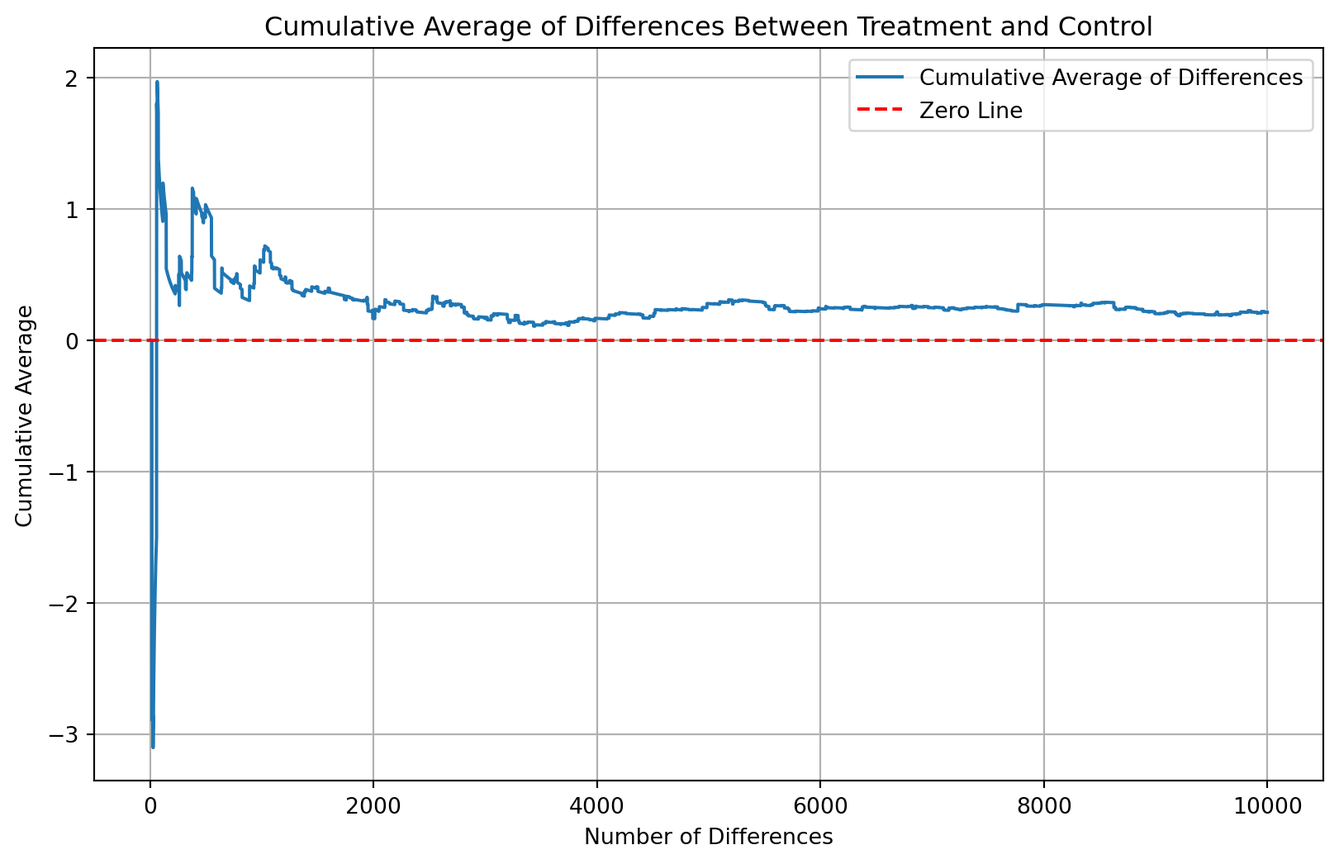
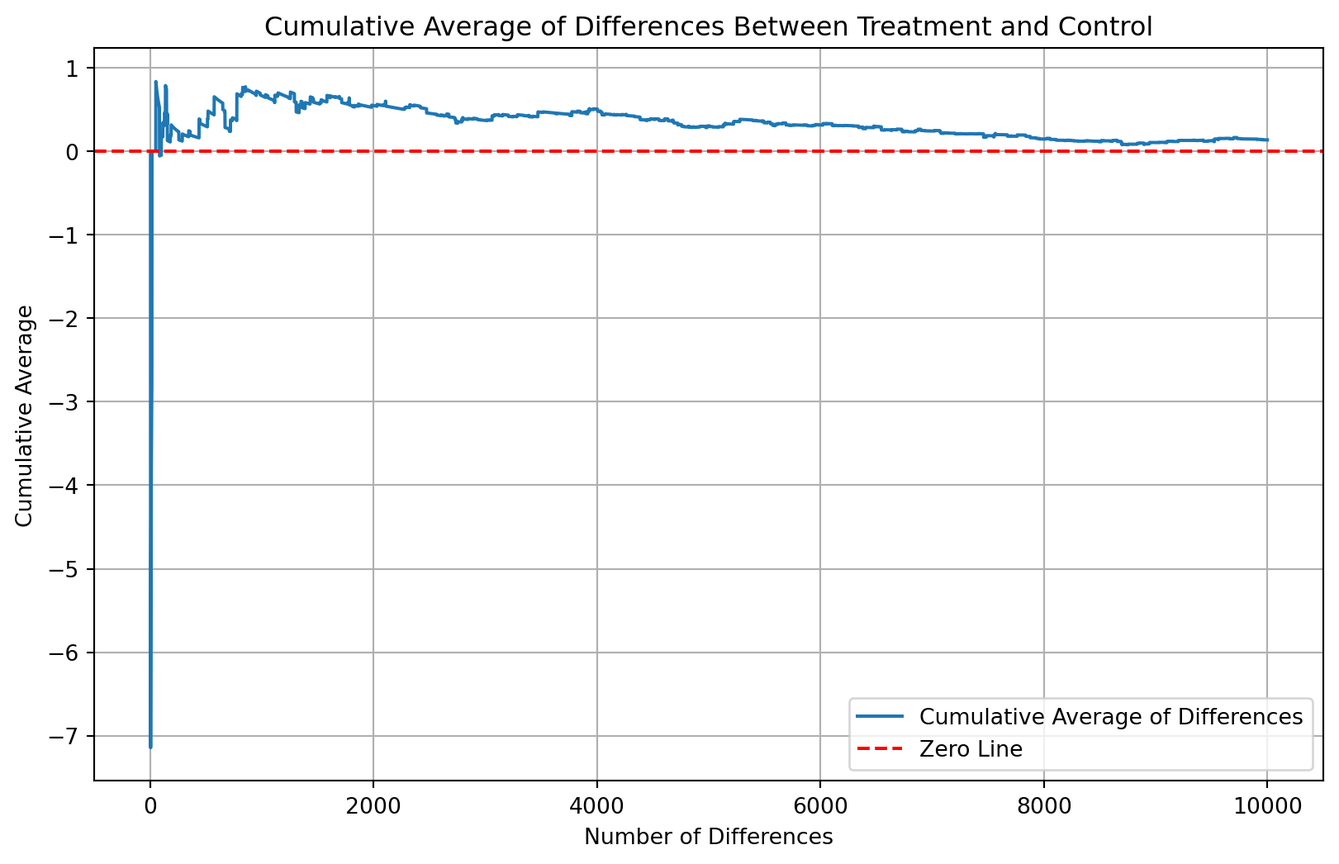
commit3

diff --git a/docs/projects/homework1/hw1_questions.html b/docs/projects/homework1/hw1_questions.html
@@ -217,15 +217,14 @@ pre > code.sourceCode > span > a:first-child::before { text-decoration: underlin
 <section id="description" class="level3">
 <h3 class="anchored" data-anchor-id="description">Description</h3>
 <p><em>todo: Read the data into R/Python and describe the data</em></p>
-<p>Some observations from the summary statistics: - The treatment variable has a mean of 0.666813, indicating about two-thirds of the sample received a treatment letter.</p>
-<div id="ea5c03a7" class="cell" data-execution_count="1">
+<div id="89fe37f8" class="cell" data-execution_count="1">
 <div class="sourceCode cell-code" id="cb1"><pre class="sourceCode python code-with-copy"><code class="sourceCode python"><span id="cb1-1"><a href="#cb1-1" aria-hidden="true" tabindex="-1"></a><span class="im">import</span> sys</span>
 <span id="cb1-2"><a href="#cb1-2" aria-hidden="true" tabindex="-1"></a><span class="bu">print</span>(sys.version)</span></code><button title="Copy to Clipboard" class="code-copy-button"><i class="bi"></i></button></pre></div>
 <div class="cell-output cell-output-stdout">
 <pre><code>3.11.9 | packaged by conda-forge | (main, Apr 19 2024, 18:25:01) [GCC 12.3.0]</code></pre>
 </div>
 </div>
-<div id="e3fec77b" class="cell" data-execution_count="2">
+<div id="9b55f298" class="cell" data-execution_count="2">
 <div class="sourceCode cell-code" id="cb3"><pre class="sourceCode python code-with-copy"><code class="sourceCode python"><span id="cb3-1"><a href="#cb3-1" aria-hidden="true" tabindex="-1"></a><span class="im">import</span> pandas <span class="im">as</span> pd</span>
 <span id="cb3-2"><a href="#cb3-2" aria-hidden="true" tabindex="-1"></a></span>
 <span id="cb3-3"><a href="#cb3-3" aria-hidden="true" tabindex="-1"></a><span class="co"># Load the Stata file</span></span>
@@ -298,7 +297,7 @@ memory usage: 8.9 MB
 None</code></pre>
 </div>
 </div>
-<div id="2441c7ed" class="cell" data-execution_count="3">
+<div id="619ef500" class="cell" data-execution_count="3">
 <div class="sourceCode cell-code" id="cb5"><pre class="sourceCode python code-with-copy"><code class="sourceCode python"><span id="cb5-1"><a href="#cb5-1" aria-hidden="true" tabindex="-1"></a><span class="co"># Show summary statistics</span></span>
 <span id="cb5-2"><a href="#cb5-2" aria-hidden="true" tabindex="-1"></a><span class="bu">print</span>(<span class="st">"</span><span class="ch">\n</span><span class="st">Summary statistics:"</span>)</span>
 <span id="cb5-3"><a href="#cb5-3" aria-hidden="true" tabindex="-1"></a><span class="bu">print</span>(df.describe(include<span class="op">=</span><span class="st">'all'</span>))</span></code><button title="Copy to Clipboard" class="code-copy-button"><i class="bi"></i></button></pre></div>
@@ -373,6 +372,7 @@ max          1.000000
 [11 rows x 51 columns]</code></pre>
 </div>
 </div>
+<p>Some observations from the summary statistics: - The treatment variable has a mean of 0.666813, indicating about two-thirds of the sample received a treatment letter.</p>
 <ul>
 <li><p>The control variable has a mean of 0.333187, indicating one-third of the sample received the standard letter with no match.</p></li>
 <li><p>The ratio2 (2:1 match) and ratio3 (3:1 match) indicators each have a mean of approximately 0.222, meaning about 22% of the sample received these specific matching offers.</p></li>
@@ -623,8 +623,7 @@ Variable Definitions
 <section id="charitable-contribution-made" class="level3">
 <h3 class="anchored" data-anchor-id="charitable-contribution-made">Charitable Contribution Made</h3>
 <p>First, I analyze whether matched donations lead to an increased response rate of making a donation.</p>
-<p><em>todo: make a barplot with two bars. Each bar is the proportion of people who donated. One bar for treatment and one bar for control.</em></p>
-<div id="d2eb6ee5" class="cell" data-execution_count="4">
+<div id="8506a540" class="cell" data-execution_count="4">
 <div class="sourceCode cell-code" id="cb7"><pre class="sourceCode python code-with-copy"><code class="sourceCode python"><span id="cb7-1"><a href="#cb7-1" aria-hidden="true" tabindex="-1"></a><span class="im">import</span> matplotlib.pyplot <span class="im">as</span> plt</span>
 <span id="cb7-2"><a href="#cb7-2" aria-hidden="true" tabindex="-1"></a></span>
 <span id="cb7-3"><a href="#cb7-3" aria-hidden="true" tabindex="-1"></a><span class="co"># Calculate the proportion of people who donated in each group</span></span>
@@ -652,8 +651,7 @@ Proportion of people who donated in the Control group: 1.79%</code></pre>
 </div>
 </div>
 </div>
-<p><em>todo: run a t-test between the treatment and control groups on the binary outcome of whether any charitable donation was made. Also run a bivariate linear regression that demonstrates the same finding. (It may help to confirm your calculations match Table 2a Panel A.) Report your statistical results and interpret them in the context of the experiment (e.g., if you found a difference with a small p-value or that was statistically significant at some threshold, what have you learned about human behavior? Use mostly English words, not numbers or stats, to explain your finding.)</em></p>
-<div id="9d50a40d" class="cell" data-execution_count="5">
+<div id="b0b2fdd1" class="cell" data-execution_count="5">
 <div class="sourceCode cell-code" id="cb9"><pre class="sourceCode python code-with-copy"><code class="sourceCode python"><span id="cb9-1"><a href="#cb9-1" aria-hidden="true" tabindex="-1"></a><span class="im">from</span> scipy.stats <span class="im">import</span> ttest_ind</span>
 <span id="cb9-2"><a href="#cb9-2" aria-hidden="true" tabindex="-1"></a></span>
 <span id="cb9-3"><a href="#cb9-3" aria-hidden="true" tabindex="-1"></a><span class="op">%</span>pip install statsmodels</span>
@@ -673,7 +671,7 @@ Requirement already satisfied: six in /opt/conda/lib/python3.11/site-packages (f
 Note: you may need to restart the kernel to use updated packages.</code></pre>
 </div>
 </div>
-<div id="63ba697a" class="cell" data-execution_count="6">
+<div id="ebefbc91" class="cell" data-execution_count="6">
 <div class="sourceCode cell-code" id="cb11"><pre class="sourceCode python code-with-copy"><code class="sourceCode python"><span id="cb11-1"><a href="#cb11-1" aria-hidden="true" tabindex="-1"></a><span class="im">import</span> statsmodels.api <span class="im">as</span> sm</span>
 <span id="cb11-2"><a href="#cb11-2" aria-hidden="true" tabindex="-1"></a></span>
 <span id="cb11-3"><a href="#cb11-3" aria-hidden="true" tabindex="-1"></a><span class="co"># Add an intercept column to the DataFrame</span></span>
@@ -698,7 +696,7 @@ Dep. Variable:                   gave   R-squared:                       0.000
 Model:                            OLS   Adj. R-squared:                  0.000
 Method:                 Least Squares   F-statistic:                     9.618
 Date:                Wed, 23 Apr 2025   Prob (F-statistic):            0.00193
-Time:                        12:02:19   Log-Likelihood:                 26630.
+Time:                        12:09:09   Log-Likelihood:                 26630.
 No. Observations:               50083   AIC:                        -5.326e+04
 Df Residuals:                   50081   BIC:                        -5.324e+04
 Df Model:                           1                                         
@@ -721,7 +719,7 @@ Notes:
 P-value for treatment in bivariate regression: 0.0019</code></pre>
 </div>
 </div>
-<div id="88d18758" class="cell" data-execution_count="7">
+<div id="d46bf98f" class="cell" data-execution_count="7">
 <div class="sourceCode cell-code" id="cb13"><pre class="sourceCode python code-with-copy"><code class="sourceCode python"><span id="cb13-1"><a href="#cb13-1" aria-hidden="true" tabindex="-1"></a><span class="co"># Perform a probit regression</span></span>
 <span id="cb13-2"><a href="#cb13-2" aria-hidden="true" tabindex="-1"></a>probit_model <span class="op">=</span> smf.probit(<span class="st">'gave ~ treatment'</span>, data<span class="op">=</span>df)</span>
 <span id="cb13-3"><a href="#cb13-3" aria-hidden="true" tabindex="-1"></a>probit_results <span class="op">=</span> probit_model.fit()</span>
@@ -741,7 +739,7 @@ Dep. Variable:                   gave   No. Observations:                50083
 Model:                         Probit   Df Residuals:                    50081
 Method:                           MLE   Df Model:                            1
 Date:                Wed, 23 Apr 2025   Pseudo R-squ.:               0.0009783
-Time:                        12:02:20   Log-Likelihood:                -5030.5
+Time:                        12:09:10   Log-Likelihood:                -5030.5
 converged:                       True   LL-Null:                       -5035.4
 Covariance Type:            nonrobust   LLR p-value:                  0.001696
 ==============================================================================
@@ -753,13 +751,12 @@ treatment      0.0868      0.028      3.113      0.002       0.032       0.141
 </div>
 </div>
 <p>Notes: [1] Standard Errors assume that the covariance matrix of the errors is correctly specified.</p>
-<p>P-value for treatment in bivariate regression: 0.0019 <em>todo: run a probit regression where the outcome variable is whether any charitable donation was made and the explanatory variable is assignment to treatment or control. Confirm that your results replicate Table 3 column 1 in the paper.</em></p>
+<p>P-value for treatment in bivariate regression: 0.0019</p>
 </section>
 <section id="differences-between-match-rates" class="level3">
 <h3 class="anchored" data-anchor-id="differences-between-match-rates">Differences between Match Rates</h3>
 <p>Next, I assess the effectiveness of different sizes of matched donations on the response rate.</p>
-<p><em>todo: Use a series of t-tests to test whether the size of the match ratio has an effect on whether people donate or not. For example, does the 2:1 match rate lead increase the likelihood that someone donates as compared to the 1:1 match rate? Do your results support the “figures suggest” comment the authors make on page 8?</em></p>
-<div id="c882524d" class="cell" data-execution_count="8">
+<div id="8efa3994" class="cell" data-execution_count="8">
 <div class="sourceCode cell-code" id="cb15"><pre class="sourceCode python code-with-copy"><code class="sourceCode python"><span id="cb15-1"><a href="#cb15-1" aria-hidden="true" tabindex="-1"></a><span class="co"># Extract unique match ratios</span></span>
 <span id="cb15-2"><a href="#cb15-2" aria-hidden="true" tabindex="-1"></a>match_ratios <span class="op">=</span> df[<span class="st">'ratio'</span>].unique()</span>
 <span id="cb15-3"><a href="#cb15-3" aria-hidden="true" tabindex="-1"></a></span>
@@ -800,8 +797,7 @@ T-statistic: -0.0501, P-value: 0.9600
 </code></pre>
 </div>
 </div>
-<p><em>todo: Assess the same issue using a regression. Specifically, create the variable <code>ratio1</code> then regress <code>gave</code> on <code>ratio1</code>, <code>ratio2</code>, and <code>ratio3</code> (or alternatively, regress <code>gave</code> on the categorical variable <code>ratio</code>). Interpret the coefficients and their statistical precision.</em></p>
-<div id="bc375d57" class="cell" data-execution_count="9">
+<div id="5f97b8bf" class="cell" data-execution_count="9">
 <div class="sourceCode cell-code" id="cb17"><pre class="sourceCode python code-with-copy"><code class="sourceCode python"><span id="cb17-1"><a href="#cb17-1" aria-hidden="true" tabindex="-1"></a><span class="co"># Create the variable `ratio1` from the `ratio` column</span></span>
 <span id="cb17-2"><a href="#cb17-2" aria-hidden="true" tabindex="-1"></a>df[<span class="st">'ratio1'</span>] <span class="op">=</span> (df[<span class="st">'ratio'</span>] <span class="op">==</span> <span class="dv">1</span>).astype(<span class="bu">int</span>)</span>
 <span id="cb17-3"><a href="#cb17-3" aria-hidden="true" tabindex="-1"></a></span>
@@ -821,7 +817,7 @@ Dep. Variable:                   gave   R-squared:                       0.000
 Model:                            OLS   Adj. R-squared:                  0.000
 Method:                 Least Squares   F-statistic:                     3.665
 Date:                Wed, 23 Apr 2025   Prob (F-statistic):             0.0118
-Time:                        12:02:20   Log-Likelihood:                 26630.
+Time:                        12:09:10   Log-Likelihood:                 26630.
 No. Observations:               50083   AIC:                        -5.325e+04
 Df Residuals:                   50079   BIC:                        -5.322e+04
 Df Model:                           3                                         
@@ -844,8 +840,7 @@ Notes:
 [1] Standard Errors assume that the covariance matrix of the errors is correctly specified.</code></pre>
 </div>
 </div>
-<p><em>todo: Calculate the response rate difference between the 1:1 and 2:1 match ratios and the 2:1 and 3:1 ratios. Do this directly from the data, and do it by computing the differences in the fitted coefficients of the previous regression. what do you conclude regarding the effectiveness of different sizes of matched donations?</em></p>
-<div id="7066d3be" class="cell" data-execution_count="10">
+<div id="9e853dd0" class="cell" data-execution_count="10">
 <div class="sourceCode cell-code" id="cb19"><pre class="sourceCode python code-with-copy"><code class="sourceCode python"><span id="cb19-1"><a href="#cb19-1" aria-hidden="true" tabindex="-1"></a><span class="co"># Directly from the data</span></span>
 <span id="cb19-2"><a href="#cb19-2" aria-hidden="true" tabindex="-1"></a>response_rate_1_1 <span class="op">=</span> df[df[<span class="st">'ratio'</span>] <span class="op">==</span> <span class="dv">1</span>][<span class="st">'gave'</span>].mean()</span>
 <span id="cb19-3"><a href="#cb19-3" aria-hidden="true" tabindex="-1"></a>response_rate_2_1 <span class="op">=</span> df[df[<span class="st">'ratio'</span>] <span class="op">==</span> <span class="dv">2</span>][<span class="st">'gave'</span>].mean()</span>
@@ -871,11 +866,11 @@ Response rate difference from coefficients (1:1 - 2:1): 0.0029
 Response rate difference from coefficients (2:1 - 3:1): 0.0019</code></pre>
 </div>
 <div class="cell-output cell-output-stderr">
-<pre><code>/tmp/ipykernel_38556/298916022.py:14: FutureWarning:
+<pre><code>/tmp/ipykernel_44184/298916022.py:14: FutureWarning:
 
 Series.__getitem__ treating keys as positions is deprecated. In a future version, integer keys will always be treated as labels (consistent with DataFrame behavior). To access a value by position, use `ser.iloc[pos]`
 
-/tmp/ipykernel_38556/298916022.py:15: FutureWarning:
+/tmp/ipykernel_44184/298916022.py:15: FutureWarning:
 
 Series.__getitem__ treating keys as positions is deprecated. In a future version, integer keys will always be treated as labels (consistent with DataFrame behavior). To access a value by position, use `ser.iloc[pos]`
 </code></pre>
@@ -886,8 +881,7 @@ Series.__getitem__ treating keys as positions is deprecated. In a future version
 <section id="size-of-charitable-contribution" class="level3">
 <h3 class="anchored" data-anchor-id="size-of-charitable-contribution">Size of Charitable Contribution</h3>
 <p>In this subsection, I analyze the effect of the size of matched donation on the size of the charitable contribution.</p>
-<p><em>todo: Calculate a t-test or run a bivariate linear regression of the donation amount on the treatment status. What do we learn from doing this analysis?</em></p>
-<div id="77a44409" class="cell" data-execution_count="11">
+<div id="7924a2af" class="cell" data-execution_count="11">
 <div class="sourceCode cell-code" id="cb22"><pre class="sourceCode python code-with-copy"><code class="sourceCode python"><span id="cb22-1"><a href="#cb22-1" aria-hidden="true" tabindex="-1"></a><span class="co"># Perform a bivariate linear regression of donation amount on treatment status</span></span>
 <span id="cb22-2"><a href="#cb22-2" aria-hidden="true" tabindex="-1"></a>bivariate_amount_model <span class="op">=</span> sm.OLS(df[<span class="st">'amount'</span>], df[[<span class="st">'intercept'</span>, <span class="st">'treatment'</span>]])</span>
 <span id="cb22-3"><a href="#cb22-3" aria-hidden="true" tabindex="-1"></a>bivariate_amount_results <span class="op">=</span> bivariate_amount_model.fit()</span>
@@ -904,7 +898,7 @@ Dep. Variable:                 amount   R-squared:                       0.000
 Model:                            OLS   Adj. R-squared:                  0.000
 Method:                 Least Squares   F-statistic:                     3.461
 Date:                Wed, 23 Apr 2025   Prob (F-statistic):             0.0628
-Time:                        12:02:20   Log-Likelihood:            -1.7946e+05
+Time:                        12:09:10   Log-Likelihood:            -1.7946e+05
 No. Observations:               50083   AIC:                         3.589e+05
 Df Residuals:                   50081   BIC:                         3.589e+05
 Df Model:                           1                                         
@@ -931,7 +925,7 @@ Notes:
 <p>Statistical Significance: While the p-value for the treatment variable (0.063) is close to 0.05, it slightly exceeds it, meaning the result is only marginally significant. This suggests a possible, but weak, effect of treatment on donation amount that might warrant further investigation with a larger sample or additional controls.</p>
 <p>Baseline Donation Amount: The intercept is 0.8133, indicating that individuals in the control group donated around $0.81 on average.</p>
 <p><em>todo: now limit the data to just people who made a donation and repeat the previous analysis. This regression allows you to analyze how much respondents donate conditional on donating some positive amount. Interpret the regression coefficients – what did we learn? Does the treatment coefficient have a causal interpretation?</em></p>
-<div id="ee044d2b" class="cell" data-execution_count="12">
+<div id="a0959eed" class="cell" data-execution_count="12">
 <div class="sourceCode cell-code" id="cb24"><pre class="sourceCode python code-with-copy"><code class="sourceCode python"><span id="cb24-1"><a href="#cb24-1" aria-hidden="true" tabindex="-1"></a><span class="co"># Filter the data to include only people who made a donation</span></span>
 <span id="cb24-2"><a href="#cb24-2" aria-hidden="true" tabindex="-1"></a>donors_df <span class="op">=</span> df[df[<span class="st">'gave'</span>] <span class="op">==</span> <span class="dv">1</span>]</span>
 <span id="cb24-3"><a href="#cb24-3" aria-hidden="true" tabindex="-1"></a></span>
@@ -951,7 +945,7 @@ Dep. Variable:                 amount   R-squared:                       0.000
 Model:                            OLS   Adj. R-squared:                 -0.001
 Method:                 Least Squares   F-statistic:                    0.3374
 Date:                Wed, 23 Apr 2025   Prob (F-statistic):              0.561
-Time:                        12:02:20   Log-Likelihood:                -5326.8
+Time:                        12:09:10   Log-Likelihood:                -5326.8
 No. Observations:                1034   AIC:                         1.066e+04
 Df Residuals:                    1032   BIC:                         1.067e+04
 Df Model:                           1                                         
@@ -978,8 +972,7 @@ Notes:
 <li><p>The treatment coefficient should not be interpreted causally because the sample is restricted to donors only.</p></li>
 <li><p>Treatment could influence both whether someone donates and how much they give. By only analyzing donors, we’re conditioning on a post-treatment outcome, which can lead to biased estimates (known as collider bias).</p></li>
 </ul>
-<p><em>todo: Make two plot: one for the treatment group and one for the control. Each plot should be a histogram of the donation amounts only among people who donated. Add a red vertical bar or some other annotation to indicate the sample average for each plot.</em></p>
-<div id="021cdd69" class="cell" data-execution_count="13">
+<div id="5594756d" class="cell" data-execution_count="13">
 <div class="sourceCode cell-code" id="cb26"><pre class="sourceCode python code-with-copy"><code class="sourceCode python"><span id="cb26-1"><a href="#cb26-1" aria-hidden="true" tabindex="-1"></a><span class="im">import</span> matplotlib.pyplot <span class="im">as</span> plt</span>
 <span id="cb26-2"><a href="#cb26-2" aria-hidden="true" tabindex="-1"></a></span>
 <span id="cb26-3"><a href="#cb26-3" aria-hidden="true" tabindex="-1"></a><span class="co"># Filter donation amounts for treatment and control groups among donors</span></span>
@@ -1026,7 +1019,7 @@ Notes:
 <p>As a reminder of how the t-statistic “works,” in this section I use simulation to demonstrate the Law of Large Numbers and the Central Limit Theorem.</p>
 <p>Suppose the true distribution of respondents who do not get a charitable donation match is Bernoulli with probability p=0.018 that a donation is made.</p>
 <p>Further suppose that the true distribution of respondents who do get a charitable donation match of any size is Bernoulli with probability p=0.022 that a donation is made.</p>
-<div id="6a6ebb92" class="cell" data-execution_count="14">
+<div id="28238254" class="cell" data-execution_count="14">
 <div class="sourceCode cell-code" id="cb27"><pre class="sourceCode python code-with-copy"><code class="sourceCode python"><span id="cb27-1"><a href="#cb27-1" aria-hidden="true" tabindex="-1"></a><span class="im">import</span> numpy <span class="im">as</span> np</span>
 <span id="cb27-2"><a href="#cb27-2" aria-hidden="true" tabindex="-1"></a></span>
 <span id="cb27-3"><a href="#cb27-3" aria-hidden="true" tabindex="-1"></a><span class="im">import</span> matplotlib.pyplot <span class="im">as</span> plt</span>
@@ -1085,7 +1078,7 @@ Notes:
 <div class="cell-output cell-output-display">
 <div>
 <figure class="figure">
-<p><img src="hw1_questions_files/figure-html/cell-15-output-1.png" width="969" height="523" class="figure-img"></p>
+<p><img src="hw1_questions_files/figure-html/cell-15-output-1.png" width="978" height="523" class="figure-img"></p>
 </figure>
 </div>
 </div>
@@ -1099,8 +1092,7 @@ Notes:
 </div>
 <section id="law-of-large-numbers" class="level3">
 <h3 class="anchored" data-anchor-id="law-of-large-numbers">Law of Large Numbers</h3>
-<p><em>to do: Make a plot like those on slide 43 from our first class and explain the plot to the reader. To do this, you will simulate 10,000 draws from the control distribution and 10,000 draws from the treatment distribution. You’ll then calculate a vector of 10,000 differences, and then you’ll plot the cumulative average of that vector of differences. Comment on whether the cumulative average approaches the true difference in means.</em></p>
-<div id="ffa538a7" class="cell" data-execution_count="15">
+<div id="683a8b09" class="cell" data-execution_count="15">
 <div class="sourceCode cell-code" id="cb28"><pre class="sourceCode python code-with-copy"><code class="sourceCode python"><span id="cb28-1"><a href="#cb28-1" aria-hidden="true" tabindex="-1"></a><span class="im">import</span> numpy <span class="im">as</span> np</span>
 <span id="cb28-2"><a href="#cb28-2" aria-hidden="true" tabindex="-1"></a></span>
 <span id="cb28-3"><a href="#cb28-3" aria-hidden="true" tabindex="-1"></a><span class="co"># Filter the control group</span></span>
@@ -1117,13 +1109,13 @@ Notes:
 <span id="cb28-14"><a href="#cb28-14" aria-hidden="true" tabindex="-1"></a><span class="bu">print</span>(<span class="ss">f"Max: </span><span class="sc">{</span>np<span class="sc">.</span><span class="bu">max</span>(simulated_draws)<span class="sc">:.4f}</span><span class="ss">"</span>)</span></code><button title="Copy to Clipboard" class="code-copy-button"><i class="bi"></i></button></pre></div>
 <div class="cell-output cell-output-stdout">
 <pre><code>Simulated Draws Summary:
-Mean: 0.8152
-Standard Deviation: 8.2085
+Mean: 0.7999
+Standard Deviation: 8.0425
 Min: 0.0000
 Max: 300.0000</code></pre>
 </div>
 </div>
-<div id="3207cfae" class="cell" data-execution_count="16">
+<div id="00329913" class="cell" data-execution_count="16">
 <div class="sourceCode cell-code" id="cb30"><pre class="sourceCode python code-with-copy"><code class="sourceCode python"><span id="cb30-1"><a href="#cb30-1" aria-hidden="true" tabindex="-1"></a><span class="co"># Filter the treatment group</span></span>
 <span id="cb30-2"><a href="#cb30-2" aria-hidden="true" tabindex="-1"></a>treatment_amounts <span class="op">=</span> df[df[<span class="st">'treatment'</span>] <span class="op">==</span> <span class="dv">1</span>][<span class="st">'amount'</span>]</span>
 <span id="cb30-3"><a href="#cb30-3" aria-hidden="true" tabindex="-1"></a></span>
@@ -1138,13 +1130,13 @@ Max: 300.0000</code></pre>
 <span id="cb30-12"><a href="#cb30-12" aria-hidden="true" tabindex="-1"></a><span class="bu">print</span>(<span class="ss">f"Max: </span><span class="sc">{</span>np<span class="sc">.</span><span class="bu">max</span>(simulated_treatment_draws)<span class="sc">:.4f}</span><span class="ss">"</span>)</span></code><button title="Copy to Clipboard" class="code-copy-button"><i class="bi"></i></button></pre></div>
 <div class="cell-output cell-output-stdout">
 <pre><code>Simulated Treatment Draws Summary:
-Mean: 1.0084
-Standard Deviation: 8.9926
+Mean: 0.9725
+Standard Deviation: 9.2053
 Min: 0.0000
 Max: 300.0000</code></pre>
 </div>
 </div>
-<div id="985f468a" class="cell" data-execution_count="17">
+<div id="4e3b1157" class="cell" data-execution_count="17">
 <div class="sourceCode cell-code" id="cb32"><pre class="sourceCode python code-with-copy"><code class="sourceCode python"><span id="cb32-1"><a href="#cb32-1" aria-hidden="true" tabindex="-1"></a><span class="co"># Simulate 100,000 draws from the control distribution</span></span>
 <span id="cb32-2"><a href="#cb32-2" aria-hidden="true" tabindex="-1"></a>simulated_control_draws <span class="op">=</span> np.random.choice(control_amounts, size<span class="op">=</span><span class="dv">100000</span>, replace<span class="op">=</span><span class="va">True</span>)</span>
 <span id="cb32-3"><a href="#cb32-3" aria-hidden="true" tabindex="-1"></a></span>
@@ -1175,7 +1167,7 @@ Max: 300.0000</code></pre>
 </div>
 </div>
 </div>
-<div id="daffab85" class="cell" data-execution_count="18">
+<div id="c89a7cc8" class="cell" data-execution_count="18">
 <div class="sourceCode cell-code" id="cb33"><pre class="sourceCode python code-with-copy"><code class="sourceCode python"><span id="cb33-1"><a href="#cb33-1" aria-hidden="true" tabindex="-1"></a><span class="im">from</span> scipy.stats <span class="im">import</span> norm</span>
 <span id="cb33-2"><a href="#cb33-2" aria-hidden="true" tabindex="-1"></a></span>
 <span id="cb33-3"><a href="#cb33-3" aria-hidden="true" tabindex="-1"></a><span class="co"># Add a distribution curve to the plot</span></span>

diff --git a/docs/projects.html b/docs/projects.html
@@ -202,7 +202,7 @@ window.Quarto = {
 
 <div class="quarto-listing quarto-listing-container-default" id="listing-listing">
 <div class="list quarto-listing-default">
-<div class="quarto-post image-right" data-index="0" data-listing-date-sort="1745391600000" data-listing-file-modified-sort="1745434932871" data-listing-date-modified-sort="NaN" data-listing-reading-time-sort="27" data-listing-word-count-sort="5268">
+<div class="quarto-post image-right" data-index="0" data-listing-date-sort="1745391600000" data-listing-file-modified-sort="1745435344259" data-listing-date-modified-sort="NaN" data-listing-reading-time-sort="25" data-listing-word-count-sort="4825">
 <div class="thumbnail">
 <p><a href="./projects/homework1/hw1_questions.html" class="no-external"></a></p><a href="./projects/homework1/hw1_questions.html" class="no-external">
 <p class="card-img-top"><img src="projects/homework1/hw1_questions_files/figure-html/cell-5-output-2.png"  class="thumbnail-image card-img"/></p>
